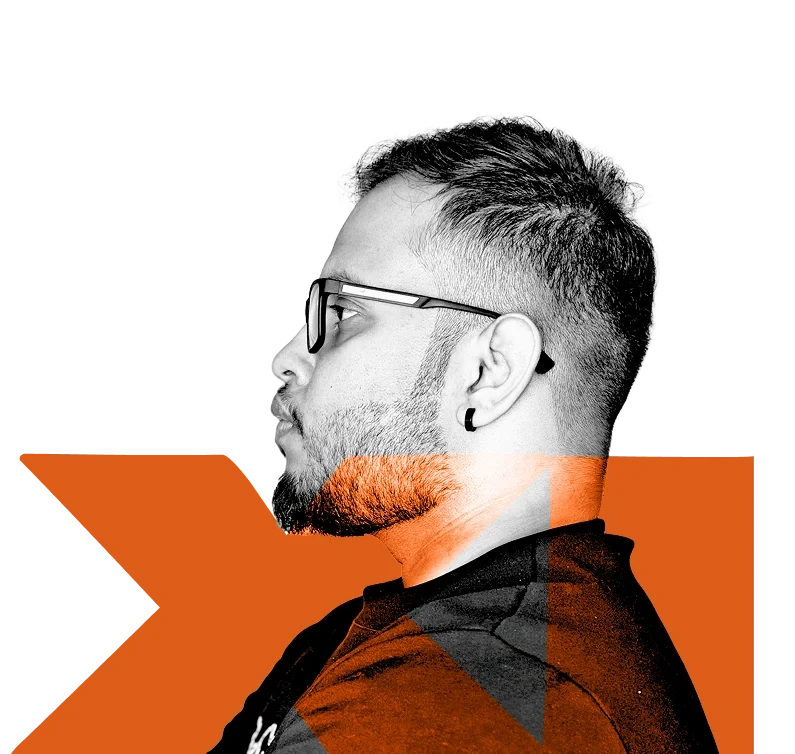
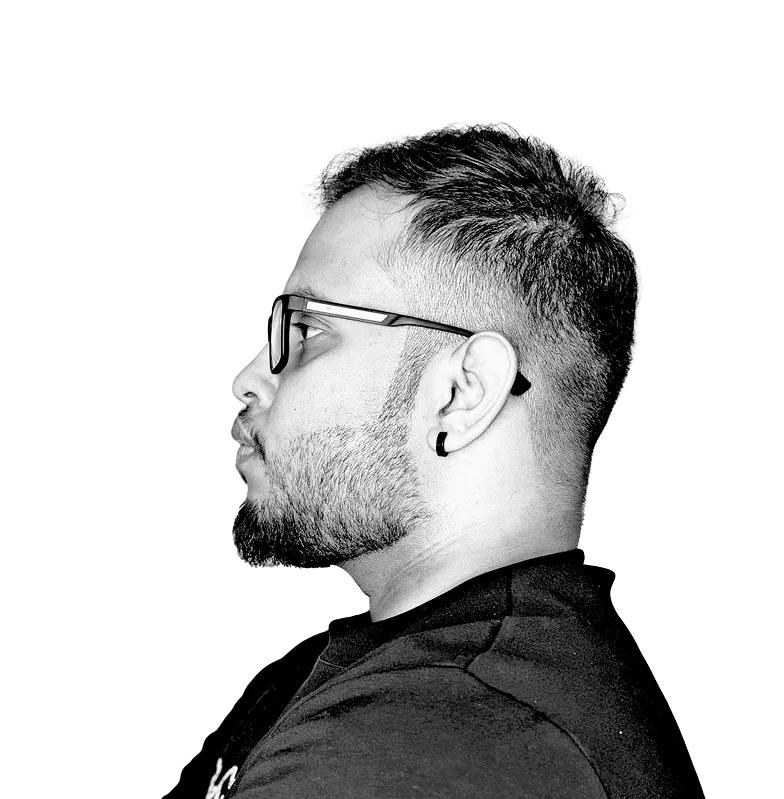
Design Changes - 2

diff --git a/src/components/Hero.tsx b/src/components/Hero.tsx
@@ -4,9 +4,9 @@ import HeroImage from "../assets/webp/Hero.webp";
 
 function Hero() {
   return (
-    <div className="pt-4 pb-2 my-[100px] mx-auto max-w-[1521px] flex flex-row flex-wrap-reverse justify-between items-center bg-[#F8F8F8] [@media(max-width:1553px)]:px-4 [@media(max-width:1120px)]:justify-center [@media(max-width:1120px)]:w-auto [@media(max-width:712px)]:mx-4 [@media(max-width:712px)]:pt-0 [@media(max-width:432px)]:my-10">
-      <div className="flex flex-col justify-items-start w-[672px] [@media(max-width:1792px)]:w-[50%] [@media(max-width:1024)]:w-full [@media(min-width:432px)]:min-w-[400px] [@media(max-width:432px)]:w-full">
-        <div className="w-[104px] h-[104px] rounded-full bg-linear-to-br from-0%-100% from-[#F8F8F8] to-[#E7E7E7] p-5 mb-28 [@media(max-width:432px)]:mb-4">
+    <div className="px-[69px] pt-[79px] my-[39px] mx-auto max-w-[1521px] flex flex-row justify-between bg-white rounded-2xl [@media(max-width:1553px)]:mx-4 [@media(max-width:955px)]:px-4 [@media(max-width:850px)]:flex-col [@media(max-width:850px)]:pt-8 [@media(max-width:432px)]:my-10">
+      <div className="flex-1 flex flex-col justify-items-start">
+        <div className="w-[104px] h-[104px] rounded-full bg-linear-to-br from-0%-100% from-[#F8F8F8] to-[#E7E7E7] p-5 mb-28 [@media(max-width:850px)]:hidden">
           <HoverCard.Root openDelay={0} closeDelay={0}>
             <HoverCard.Trigger asChild>
               <OrangeArrowDown
@@ -26,6 +26,17 @@ function Hero() {
               </HoverCard.Content>
             </HoverCard.Portal>
           </HoverCard.Root>
+        </div>
+        <div
+          className="flex flex-row mx-auto items-center justify-between min-w-[208px] mt-9 mb-8 border-1 border-[#2F2F2F] rounded-4xl [@media(min-width:851px)]:hidden"
+          onClick={() => window.open("#portfolio", "_self")}
+        >
+          <div className="w-9 h-9 rounded-full bg-linear-to-br from-0%-100% from-[#F8F8F8] to-[#E7E7E7] p-1.5">
+            <OrangeArrowDown className="w-6 h-6 rounded-full cursor-pointer fill-[#DD5D18] hover:fill-[#8D58FF]" />
+          </div>
+          <p className="font-normal text-xs px-4">
+            Take me to the Projects now!
+          </p>
         </div>
         <div className="w-full pb-5.5">
           <h2 className="text-[#DD5D18] text-lg font-medium my-1">Namaste!</h2>
@@ -51,11 +62,11 @@ function Hero() {
           </button>
         </div>
       </div>
-      <img
-        src={HeroImage}
-        alt="Hero"
-        className="w-[794px]  mb-10 [@media(max-width:1792px)]:w-[50%] [@media(max-width:1024)]:w-full [@media(min-width:432px)]:min-w-[400px] [@media(max-width:432px)]:w-full"
-      />
+      <div className="flex-1 flex flex-col justify-items-end">
+        <div className="mt-auto">
+          <img src={HeroImage} alt="Hero" />
+        </div>
+      </div>
     </div>
   );
 }
